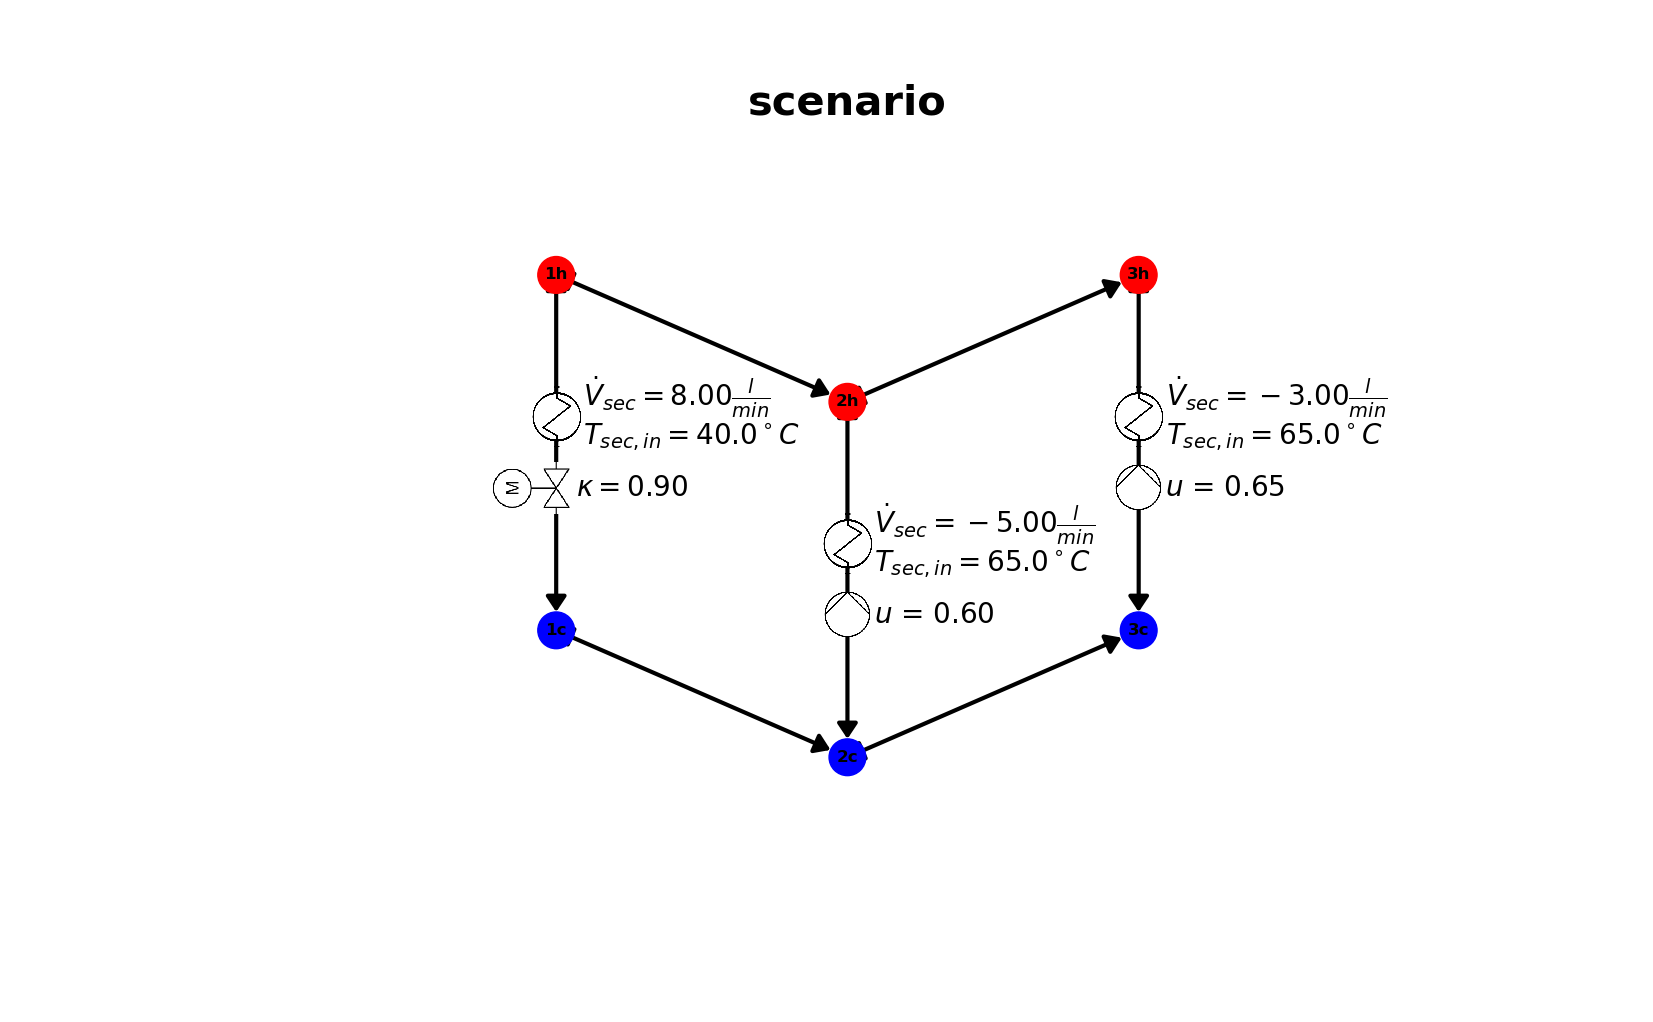
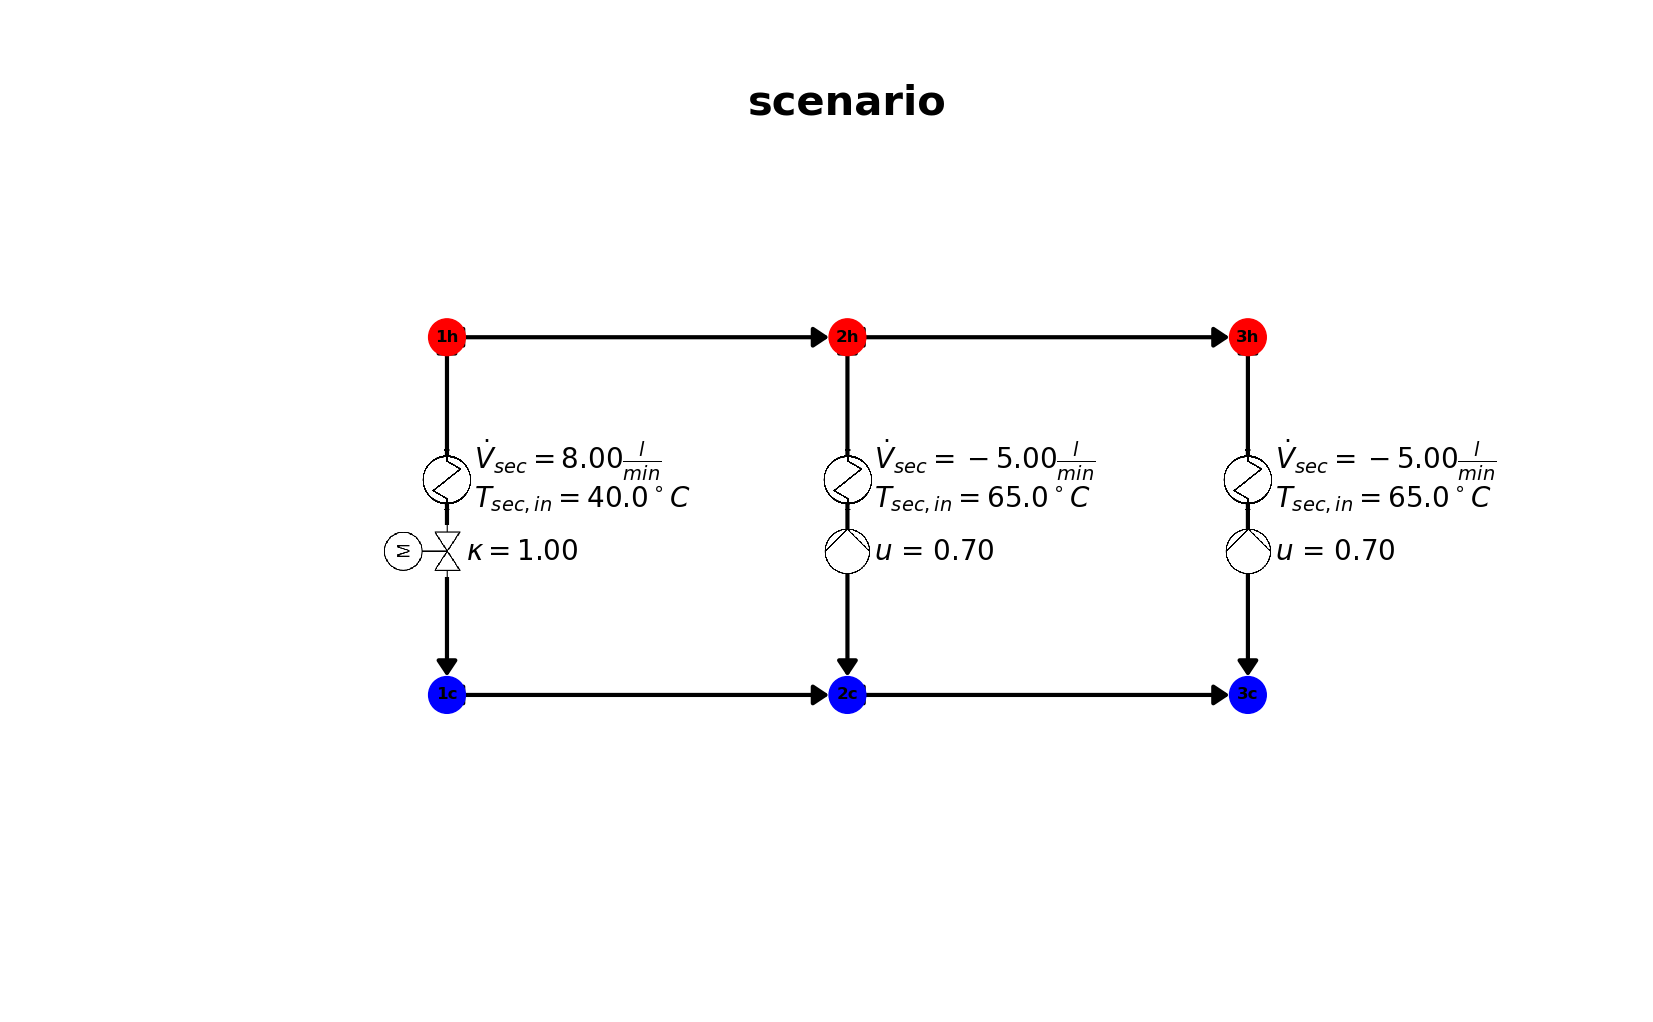
work in progress

diff --git a/G_visualization.py b/G_visualization.py
@@ -671,16 +671,11 @@ def visualize_prosumer_results(setup, graph, solutions, th_problem, withnumbers=
         
         
         # parameters
-        myfontsize = 14
+        myfontsize = 20
         myfigsize=[2*21.0/2.54, 2*12.98/2.54]
         myarrowstyle = mpltlib.patches.ArrowStyle.CurveFilledAB(head_length=0.6, head_width=0.4) #CurveB, CurveFilledB
         savepath = './results/'
         saveformat = 'png' # jpg, png, eps, svgd
-        
-        # initialize figure
-        fig = plt.figure(num='prosumer_results', figsize=myfigsize)
-        plt.title('prosumer results', {'fontsize': 30,
-            'fontweight' : 'bold'})
         
         ## initialize new Graph that represents the solution
         G = nx.DiGraph()
@@ -696,6 +691,11 @@ def visualize_prosumer_results(setup, graph, solutions, th_problem, withnumbers=
                 G.add_edge(edge[0],edge[1])
             else:
                 raise ValueError('')
+        
+        # initialize figure
+        fig = plt.figure(num='prosumer_results', figsize=myfigsize)
+        plt.title('prosumer results', {'fontsize': 30,
+            'fontweight' : 'bold'})
         
         # set-up node color
         for node in G.nodes():
@@ -716,7 +716,7 @@ def visualize_prosumer_results(setup, graph, solutions, th_problem, withnumbers=
                                  fontsize = 20,
                                  with_labels=True, node_color = colorslist,
                                  arrowsize=15, arrowstyle=myarrowstyle,
-                                 node_size=700, width=3,
+                                 node_size=900, width=3,
                                  font_weight = 'bold', alpha=1)
         
         xcoords= [setup.coordinates[node][0]
@@ -774,10 +774,10 @@ def visualize_prosumer_results(setup, graph, solutions, th_problem, withnumbers=
                     xpos_text_disp0b = coord_hx_disp[0]+0.55*myExtend0[0]
                     xpos_text_disp0c = coord_hx_disp[0]+0.55*myExtend0[0]
                     xpos_text_disp0d = coord_hx_disp[0]+0.55*myExtend0[0]
-                    ypos_text_disp0a = coord_hx_disp[1]+1.5*myExtend0[0]
-                    ypos_text_disp0b = coord_hx_disp[1]+0.9*myExtend0[0]
+                    ypos_text_disp0a = coord_hx_disp[1]+1.9*myExtend0[0]
+                    ypos_text_disp0b = coord_hx_disp[1]+1.1*myExtend0[0]
                     ypos_text_disp0c = coord_hx_disp[1]+0.3*myExtend0[0]
-                    ypos_text_disp0d = coord_hx_disp[1]-0.3*myExtend0[0]
+                    ypos_text_disp0d = coord_hx_disp[1]-0.5*myExtend0[0]
                     coord_text_data0a=inv1.transform((
                             xpos_text_disp0a,ypos_text_disp0a))
                     coord_text_data0b=inv1.transform((

diff --git a/setup/example/scenario.py b/setup/example/scenario.py
@@ -1,6 +1,6 @@
 self.scenario   =   {}
 
-self.scenario['T_soil'] = 12 + 273.15
+self.scenario['T_soil'] = 20 + 273.15
 
 self.scenario[1]                        =   {}
 self.scenario[1]['pi']                  =   1
@@ -8,7 +8,7 @@ self.scenario[1]['mu']                  =   -1
 self.scenario[1]['T_sec_in_degree']     =   40  # [°C]
 self.scenario[1]['T_sec_in']            =   self.scenario[1]['T_sec_in_degree'] + 273.15 # [K]
 self.scenario[1]['dotV_sec_in']         =   8 # [l / min]
-self.scenario[1]['kappa']               =   0.9
+self.scenario[1]['kappa']               =   1
 self.scenario[1]['u']                   =   0
 
 self.scenario[2]                        =   {}
@@ -18,16 +18,16 @@ self.scenario[2]['T_sec_in_degree']     =   65  # [°C]
 self.scenario[2]['T_sec_in']            =   self.scenario[2]['T_sec_in_degree'] + 273.15 # [K]
 self.scenario[2]['dotV_sec_in']         =   -5 # [l/min]
 self.scenario[2]['kappa']               =   0
-self.scenario[2]['u']                   =   0.6
+self.scenario[2]['u']                   =   0.7
 
 self.scenario[3]                        =   {}
 self.scenario[3]['pi']                  =   1
 self.scenario[3]['mu']                  =   1
 self.scenario[3]['T_sec_in_degree']     =   65  # [°C]
 self.scenario[3]['T_sec_in']            =   self.scenario[3]['T_sec_in_degree'] + 273.15 # [K]
-self.scenario[3]['dotV_sec_in']         =   -3 # [l / min]
+self.scenario[3]['dotV_sec_in']         =   -5 # [l / min]
 self.scenario[3]['kappa']               =   0
-self.scenario[3]['u']                   =   0.65
+self.scenario[3]['u']                   =   0.7
 
 
 

diff --git a/setup/example/parametrization.py b/setup/example/parametrization.py
@@ -42,10 +42,10 @@ myhx1       =      cm.heatexchanger(dotV_nom=21.504, Deltap_nom=155, k_nom = 527
 ###         lambda_layers   [W/(m*K)]       thermal conductivity of layers
 ###         h_ir            [W/((m**2)*K)]  heat transfer coefficient at inside of pipe
 ###         h_or            [W/((m**2)*K)]  heat transfer coefficient at outside of outest pipe layer
-mypipe1    =     cm.pipe(L=15,d_hy=0.022,epsilon=0.011,u_nom=0.5,zeta_instal=10,
+mypipe1    =     cm.pipe(L=50,d_hy=0.022,epsilon=0.011,u_nom=0.22,zeta_instal=10,
                  N_layers = 2, d_layers = [0.022, 0.024, 0.062],
                  lambda_layers = [395, 0.04], h_ir=3500, h_or=float('inf'))
-mypipe2    =      cm.pipe(L=5,d_hy=0.022,epsilon=0.011,u_nom=0.5,zeta_instal=3.5,
+mypipe2    =      cm.pipe(L=10,d_hy=0.022,epsilon=0.011,u_nom=0.22,zeta_instal=3.5,
                  N_layers = 2, d_layers = [0.022, 0.024, 0.062],
                  lambda_layers = [395, 0.04], h_ir=3500, h_or=float('inf'))
 

diff --git a/A_main.py b/A_main.py
@@ -112,7 +112,7 @@ vis.visualize_hy_solution(mysetup, mygraph, mysolutions, withsymbols = False, wi
 vis.visualize_th_solution(mysetup, mygraph, mysolutions, th_model, withsymbols = False, withnumbers = True)
 
 # prosumer solutions
-vis.visualize_prosumer_results(mysetup, mygraph, mysolutions, th_model, withnumbers=True)
+vis.visualize_prosumer_results(mysetup, mygraph, mysolutions, th_model, withnumbers=False)
 
 ############################################################################
 

diff --git a/setup/example/configuration.py b/setup/example/configuration.py
@@ -8,5 +8,5 @@ self.M = 3
 self.topology = [(1,2), (2,3)]
 
 ## coordinates of nodes - just for visualization purposes
-self.coordinates = {'2h': [35,80], '2c':[35,10], '3h': [60,105], '3c': 
-                        [60,35], '1h': [10,105],'1c':[10,35]}
+self.coordinates = {'1h': [10,60], '1c':[10,10], '2h': [60,60], '2c': 
+                        [60,10], '3h': [110,60], '3c':[110,10]}
